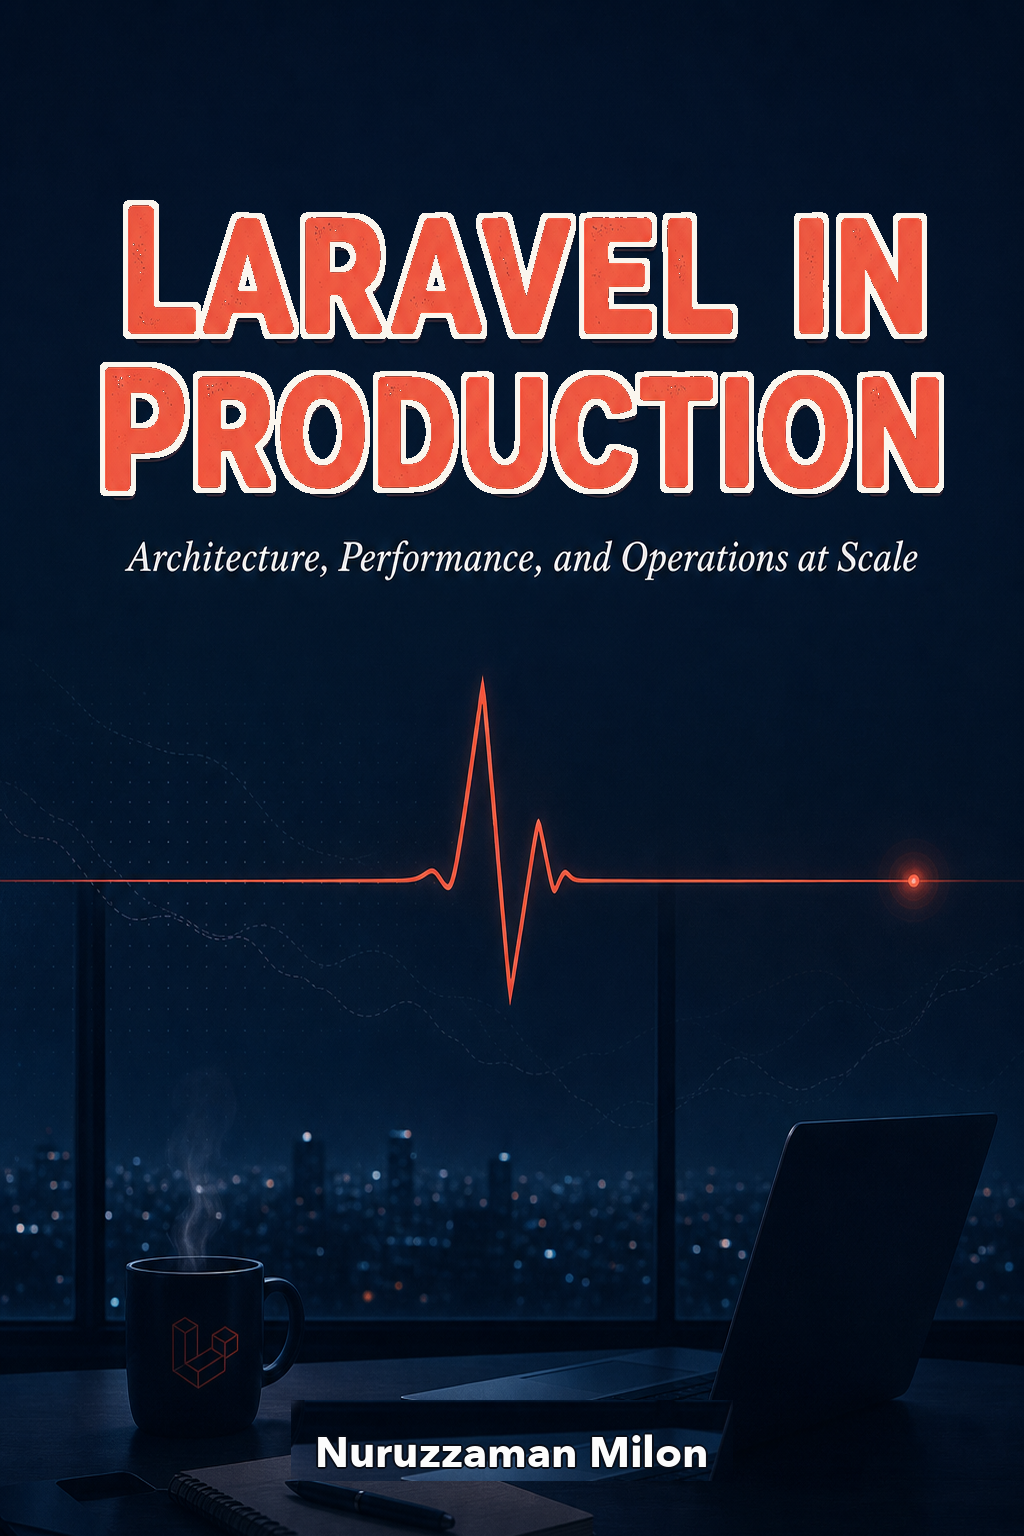
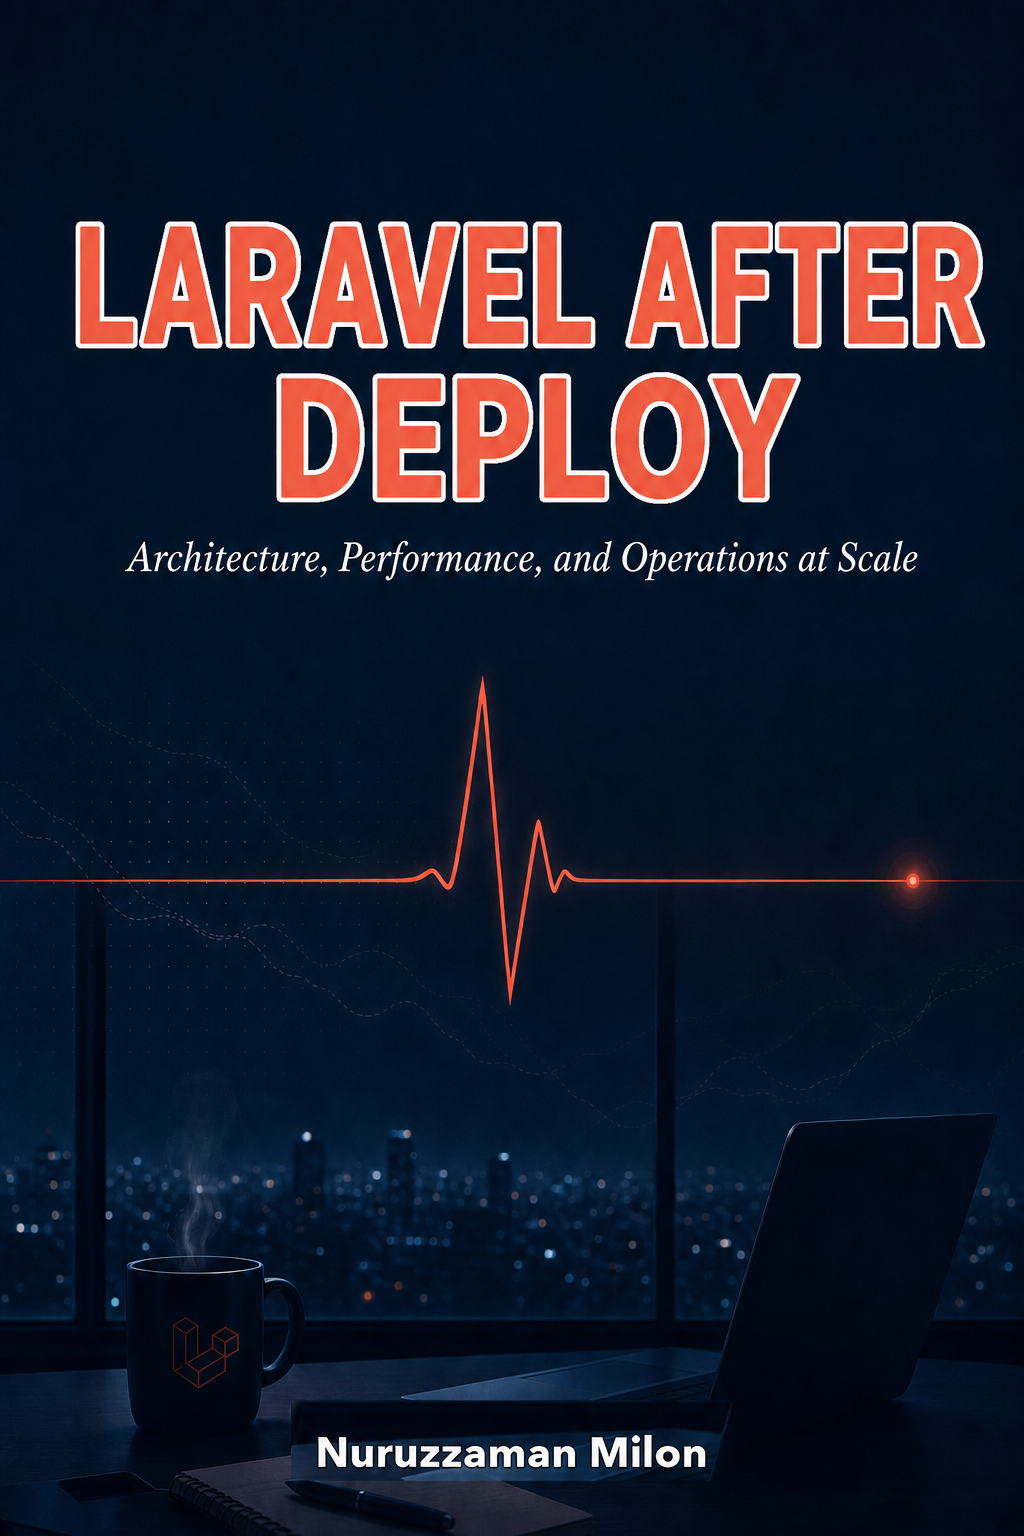
Update the book title

diff --git a/index.html b/index.html
@@ -3,17 +3,17 @@
 <head>
     <meta charset="UTF-8">
     <meta name="viewport" content="width=device-width, initial-scale=1.0">
-    <title>Laravel in Production - Architecture, Performance, and Operations at Scale</title>
+    <title>Laravel After Deploy - Architecture, Performance, and Operations at Scale</title>
     <meta name="description" content="A book for Laravel engineers who keep production systems fast, correct, and available. Structure, performance, correctness, availability, observability, deployment, and operations - grounded in real incidents.">
 
     <link rel="canonical" href="https://laravel-in-production.milon.im/">
     <meta property="og:type" content="website">
-    <meta property="og:title" content="Laravel in Production - Architecture, Performance, and Operations at Scale">
+    <meta property="og:title" content="Laravel After Deploy - Architecture, Performance, and Operations at Scale">
     <meta property="og:description" content="A book for Laravel engineers who keep production systems fast, correct, and available.">
     <meta property="og:url" content="https://laravel-in-production.milon.im/">
     <meta property="og:image" content="https://laravel-in-production.milon.im/assets/images/og-cover.png">
     <meta name="twitter:card" content="summary_large_image">
-    <meta name="twitter:title" content="Laravel in Production - Architecture, Performance, and Operations at Scale">
+    <meta name="twitter:title" content="Laravel After Deploy - Architecture, Performance, and Operations at Scale">
     <meta name="twitter:description" content="A book for Laravel engineers who keep production systems fast, correct, and available.">
     <meta name="twitter:image" content="https://laravel-in-production.milon.im/assets/images/og-cover.png">
 
@@ -35,7 +35,7 @@
     <header class="site-header">
         <nav class="container nav">
             <a href="#top" class="brand">
-                <span>Laravel in Production</span>
+                <span>Laravel After Deploy</span>
             </a>
             <div class="nav-links" id="nav-links">
                 <a href="#inside">What&rsquo;s inside</a>
@@ -67,7 +67,7 @@
                 <div>
                     <span class="badge">Almost done &middot; coming soon</span>
 
-                    <h1 class="display">Laravel in<br>Production</h1>
+                    <h1 class="display">Laravel After<br>Deploy</h1>
                     <p class="subtitle">Architecture, Performance, and Operations at Scale</p>
 
                     <p class="lede">
@@ -94,7 +94,7 @@
                 <div class="hero-cover">
                     <img
                         src="assets/images/cover-dark.png"
-                        alt="Cover of Laravel in Production: Architecture, Performance, and Operations at Scale, by Nuruzzaman Milon"
+                        alt="Cover of Laravel After Deploy: Architecture, Performance, and Operations at Scale, by Nuruzzaman Milon"
                         width="850" height="1100"
                     >
                 </div>
@@ -359,10 +359,10 @@
                             No email required.
                         </p>
                         <div class="sample-download-row">
-                            <a href="assets/downloads/sample-laravel-in-production-light.pdf" class="btn btn-primary">
+                            <a href="assets/downloads/sample-laravel-after-deploy-light.pdf" class="btn btn-primary">
                                 Download sample &middot; light mode (PDF)
                             </a>
-                            <a href="assets/downloads/sample-laravel-in-production-dark.pdf" class="btn btn-ghost">
+                            <a href="assets/downloads/sample-laravel-after-deploy-dark.pdf" class="btn btn-ghost">
                                 Download sample &middot; dark mode (PDF)
                             </a>
                         </div>
@@ -425,7 +425,7 @@
         <div class="container footer-top">
             <div class="footer-brand">
                 <div>
-                    <p class="brand-title">Laravel in Production</p>
+                    <p class="brand-title">Laravel After Deploy</p>
                     <p class="brand-byline">by Nuruzzaman Milon</p>
                 </div>
             </div>

diff --git a/README.md b/README.md
@@ -1,16 +1,6 @@
-# Laravel in Production - book site
+# Laravel After Deploy - book site
 
-The marketing/landing site for the book *Laravel in Production: Architecture,
-Performance, and Operations at Scale*. Plain HTML, CSS, and vanilla JS - no
-build step, no dependencies.
+The marketing/landing site for the book *Laravel After Deploy: Architecture,
+Performance, and Operations at Scale*.
 
 Live at **https://laravel-in-production.milon.im**.
-
-## Working locally
-
-```bash
-python3 -m http.server 8000
-# then open http://localhost:8000/
-```
-
-Deployed via GitHub Pages directly from this repo (see `CNAME` for the custom domain). 
